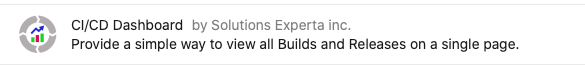
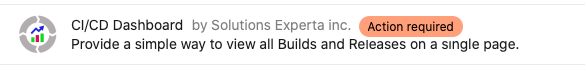
Readme.md update

Changed region(s): [[0.6154, 0.2462, 0.8, 0.6154]]

diff --git a/README.md b/README.md
@@ -5,6 +5,12 @@ The intention was to see what's currently happened into the CI/CD pipeline and p
 
 ![CICD_Screencapture](screenshots/CI_CD_Dashboard.png)
 
+## Permissions Authorization
+Don't forget to Authorize the Extension permissions under your Azure DevOps/Server Organization Settings/Extensions/CI/CD Dashboard.
+
+  ![Issue0141-01](_ReleaseNotes/ReleaseAugust2020/Issue0141/Issue0141-01.png)
+
+
 ## Supported versions
 - Azure DevOps Services
 - Azure DevOps Server 2019 update 1 (17.153.29207.5) and later - see [Azure DevOps Server build numbers](https://docs.microsoft.com/en-us/azure/devops/release-notes/features-timeline#server-build-numbers)
